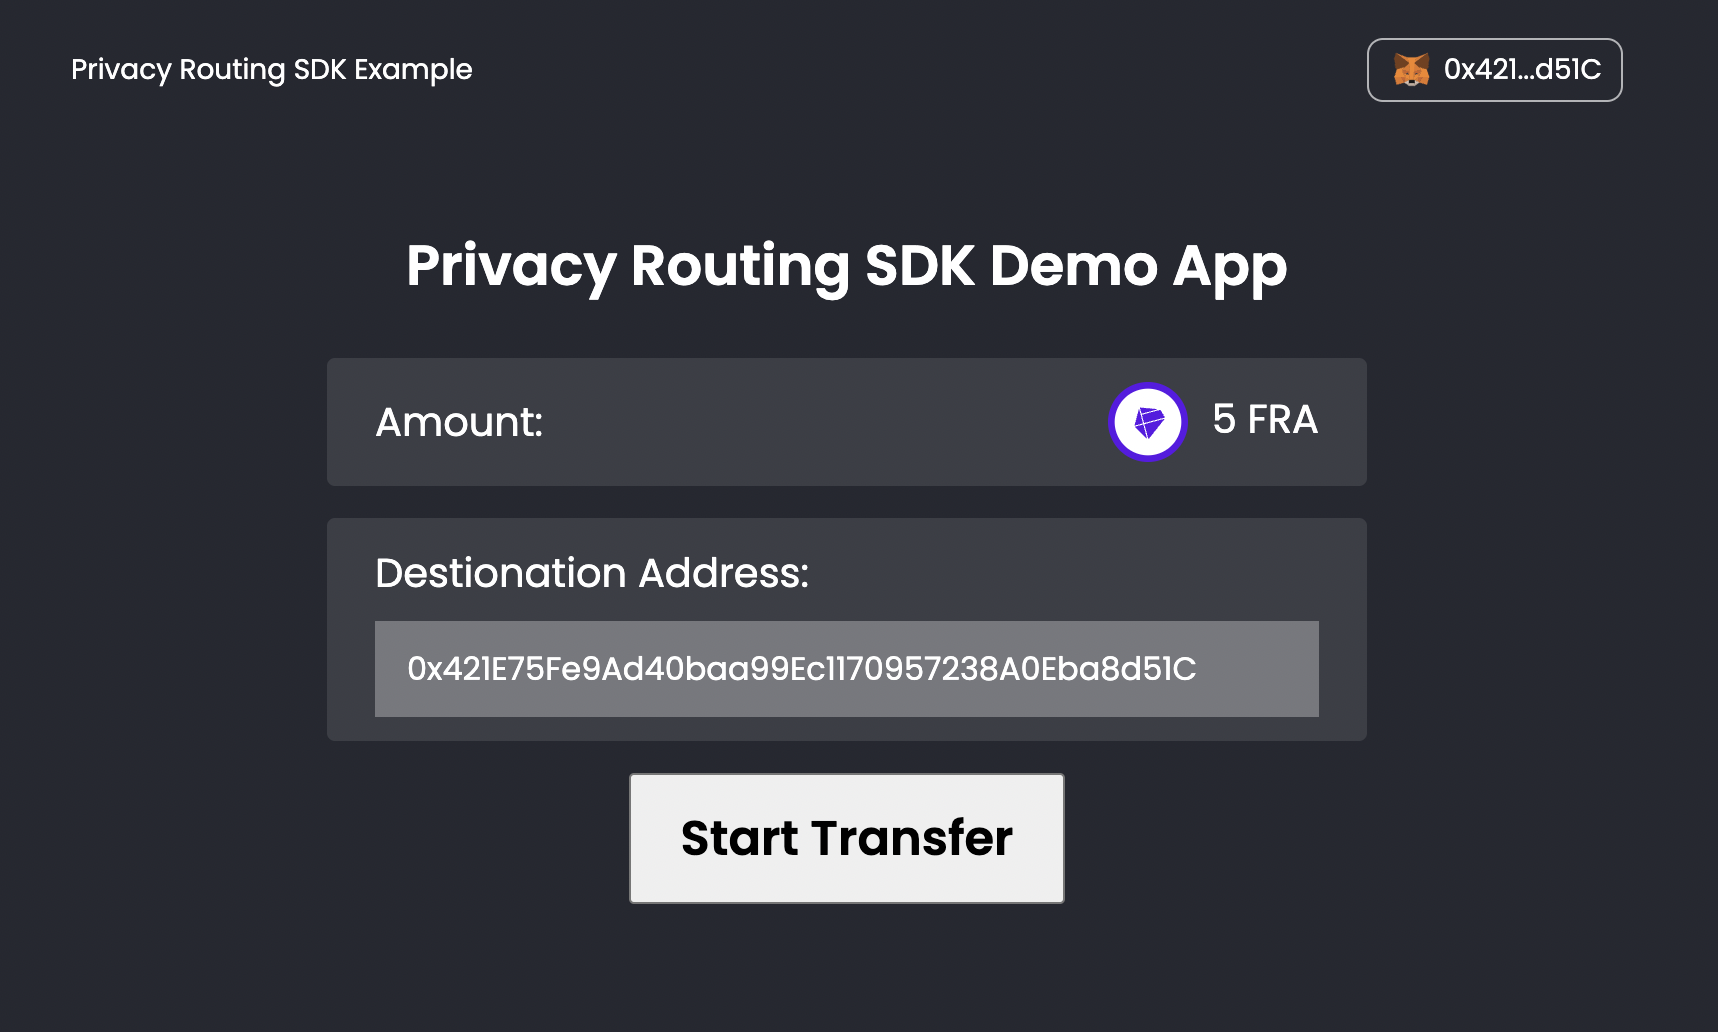
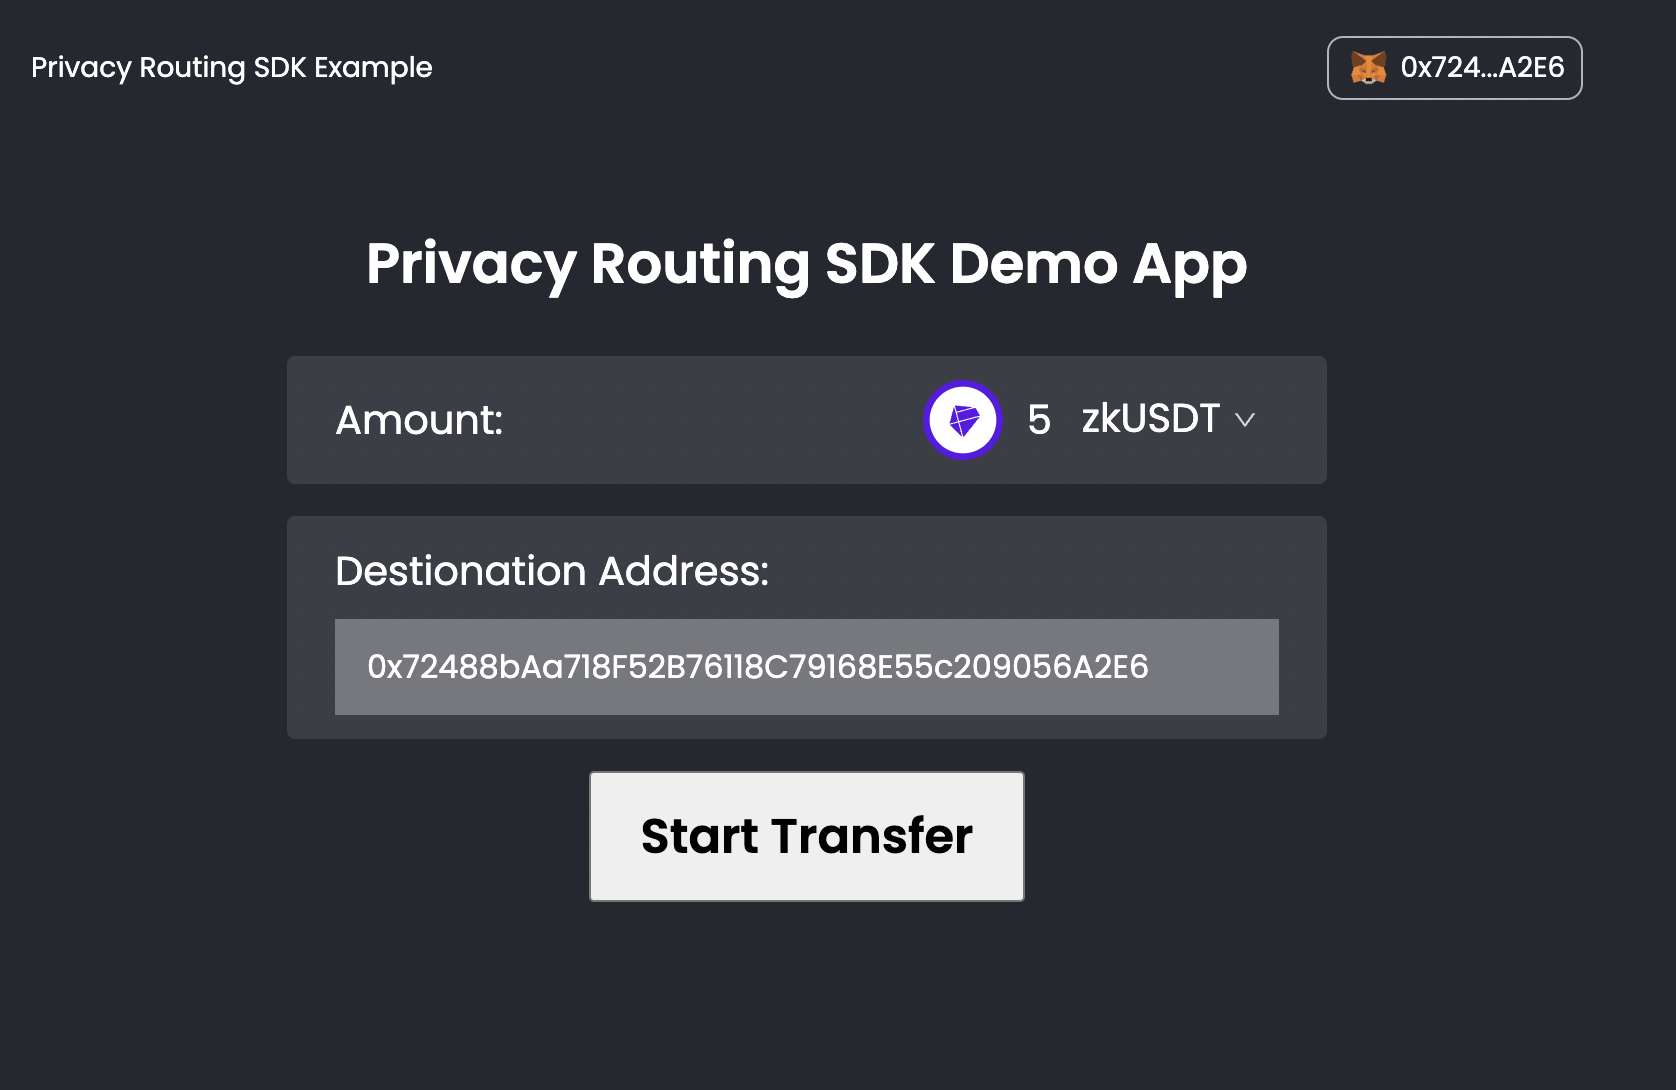
feat: add token select

diff --git a/src/pages/Transfer/index.tsx b/src/pages/Transfer/index.tsx
@@ -1,13 +1,13 @@
 import React, { useCallback, useEffect, useMemo, useState } from 'react';
 import { useWeb3React } from '@web3-react/core';
 import { useImmer } from 'use-immer';
-import { Modal, notification } from 'antd';
+import { Modal, notification, Select } from 'antd';
 import cx from 'classnames';
 import Web3 from 'web3';
 
 import AppImage from '_containers/AppImage';
 import TransferModal from '_containers/TransferModal';
-import { DEFAULT_SEND_INFO, FINDORA_EVM_CHAIN_ID, FINDORA_NETWORK, ISendInfo } from '_src/config';
+import { DEFAULT_SEND_INFO, FINDORA_EVM_CHAIN_ID, FINDORA_NETWORK, ISendInfo, TOKENS } from '_src/config';
 
 import './index.less';
 
@@ -91,9 +91,15 @@ function Transfer() {
         </div> */}
         <div className="form-box__field">
           Amount:
-          <div>
+          <div style={{ display: 'flex', alignItems: 'center' }}>
             <AppImage imageUri={selectedToken?.imageUri} />
-            {[sendInfo.amount, selectedToken?.symbol].join(' ')}
+            {sendInfo.amount}
+            <Select
+              className="form-select"
+              defaultValue={sendInfo.tokenAddress}
+              onChange={(value) => setSendInfo(sendInfo => { sendInfo.tokenAddress = value })}
+              options={TOKENS}
+            />
           </div>
         </div>
         <div className="form-box__field" style={{ flexDirection: 'column', alignItems: 'flex-start' }}>

diff --git a/src/pages/Transfer/index.less b/src/pages/Transfer/index.less
@@ -73,4 +73,17 @@
       line-height: 1;
     }
   }
+  .form-select {
+    margin-left: 4px;
+    .ant-select-selector {
+      border: none;
+      border: none;
+      background: transparent;
+      color: #fff;
+      font-size: 20px;
+    }
+    .ant-select-arrow {
+      color: #d8d8d8;
+    }
+  }
 }

diff --git a/src/config/index.ts b/src/config/index.ts
@@ -34,3 +34,8 @@ export const DEFAULT_SEND_INFO: ISendInfo = {
   sourceAddress: '',
   destinationAddress: '',
 };
+
+export const TOKENS = [
+  { value: '', label: 'FRA' },
+  { value: '0x52Cbd68fd49240E1B869cAB8C918189C5F29862c', label: 'zkUSDT' },
+]

diff --git a/README.md b/README.md
@@ -54,7 +54,6 @@ Sdk.init(ENV_CONFIG);
 
 #### Default Setting for Findora EVM to Findora EVM
 
-
 ```js
 
 // ...
@@ -102,3 +101,5 @@ export const DEFAULT_SEND_INFO = {
 
 ---
 
+### Transfer
+[containers/TransferModal](https://github.com/FindoraNetwork/privacy-routing-sdk-example/tree/main/src/containers/TransferModal)
